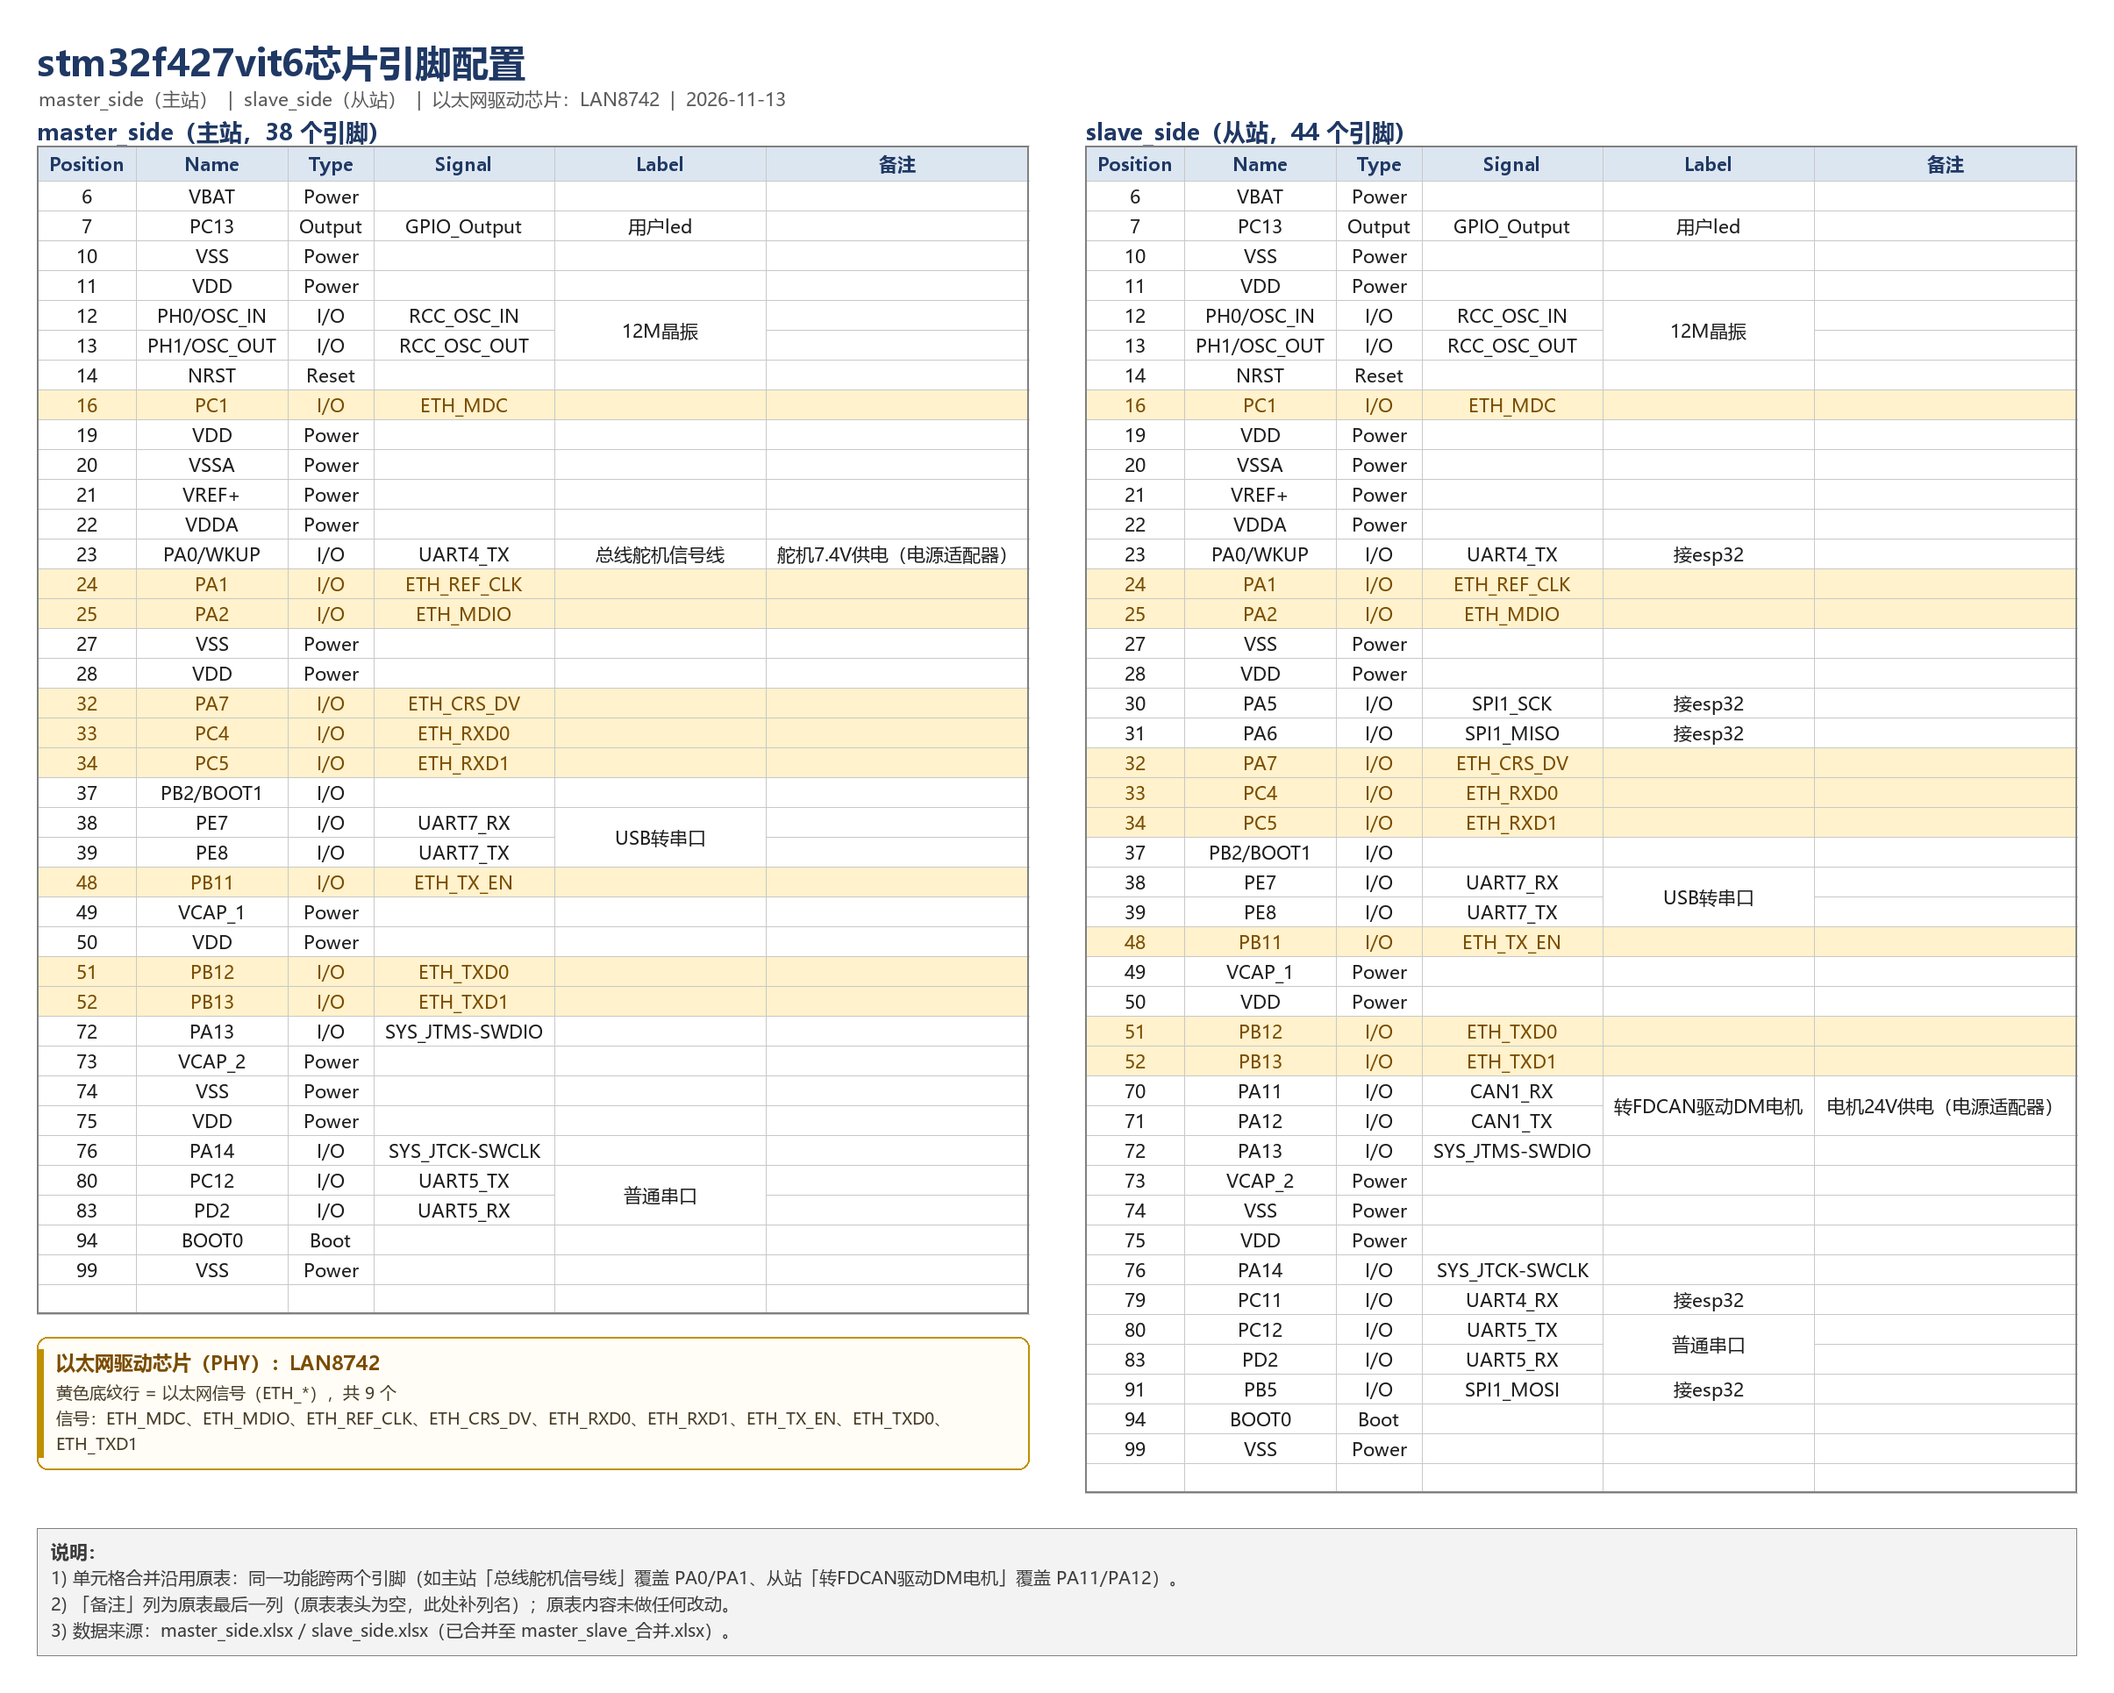
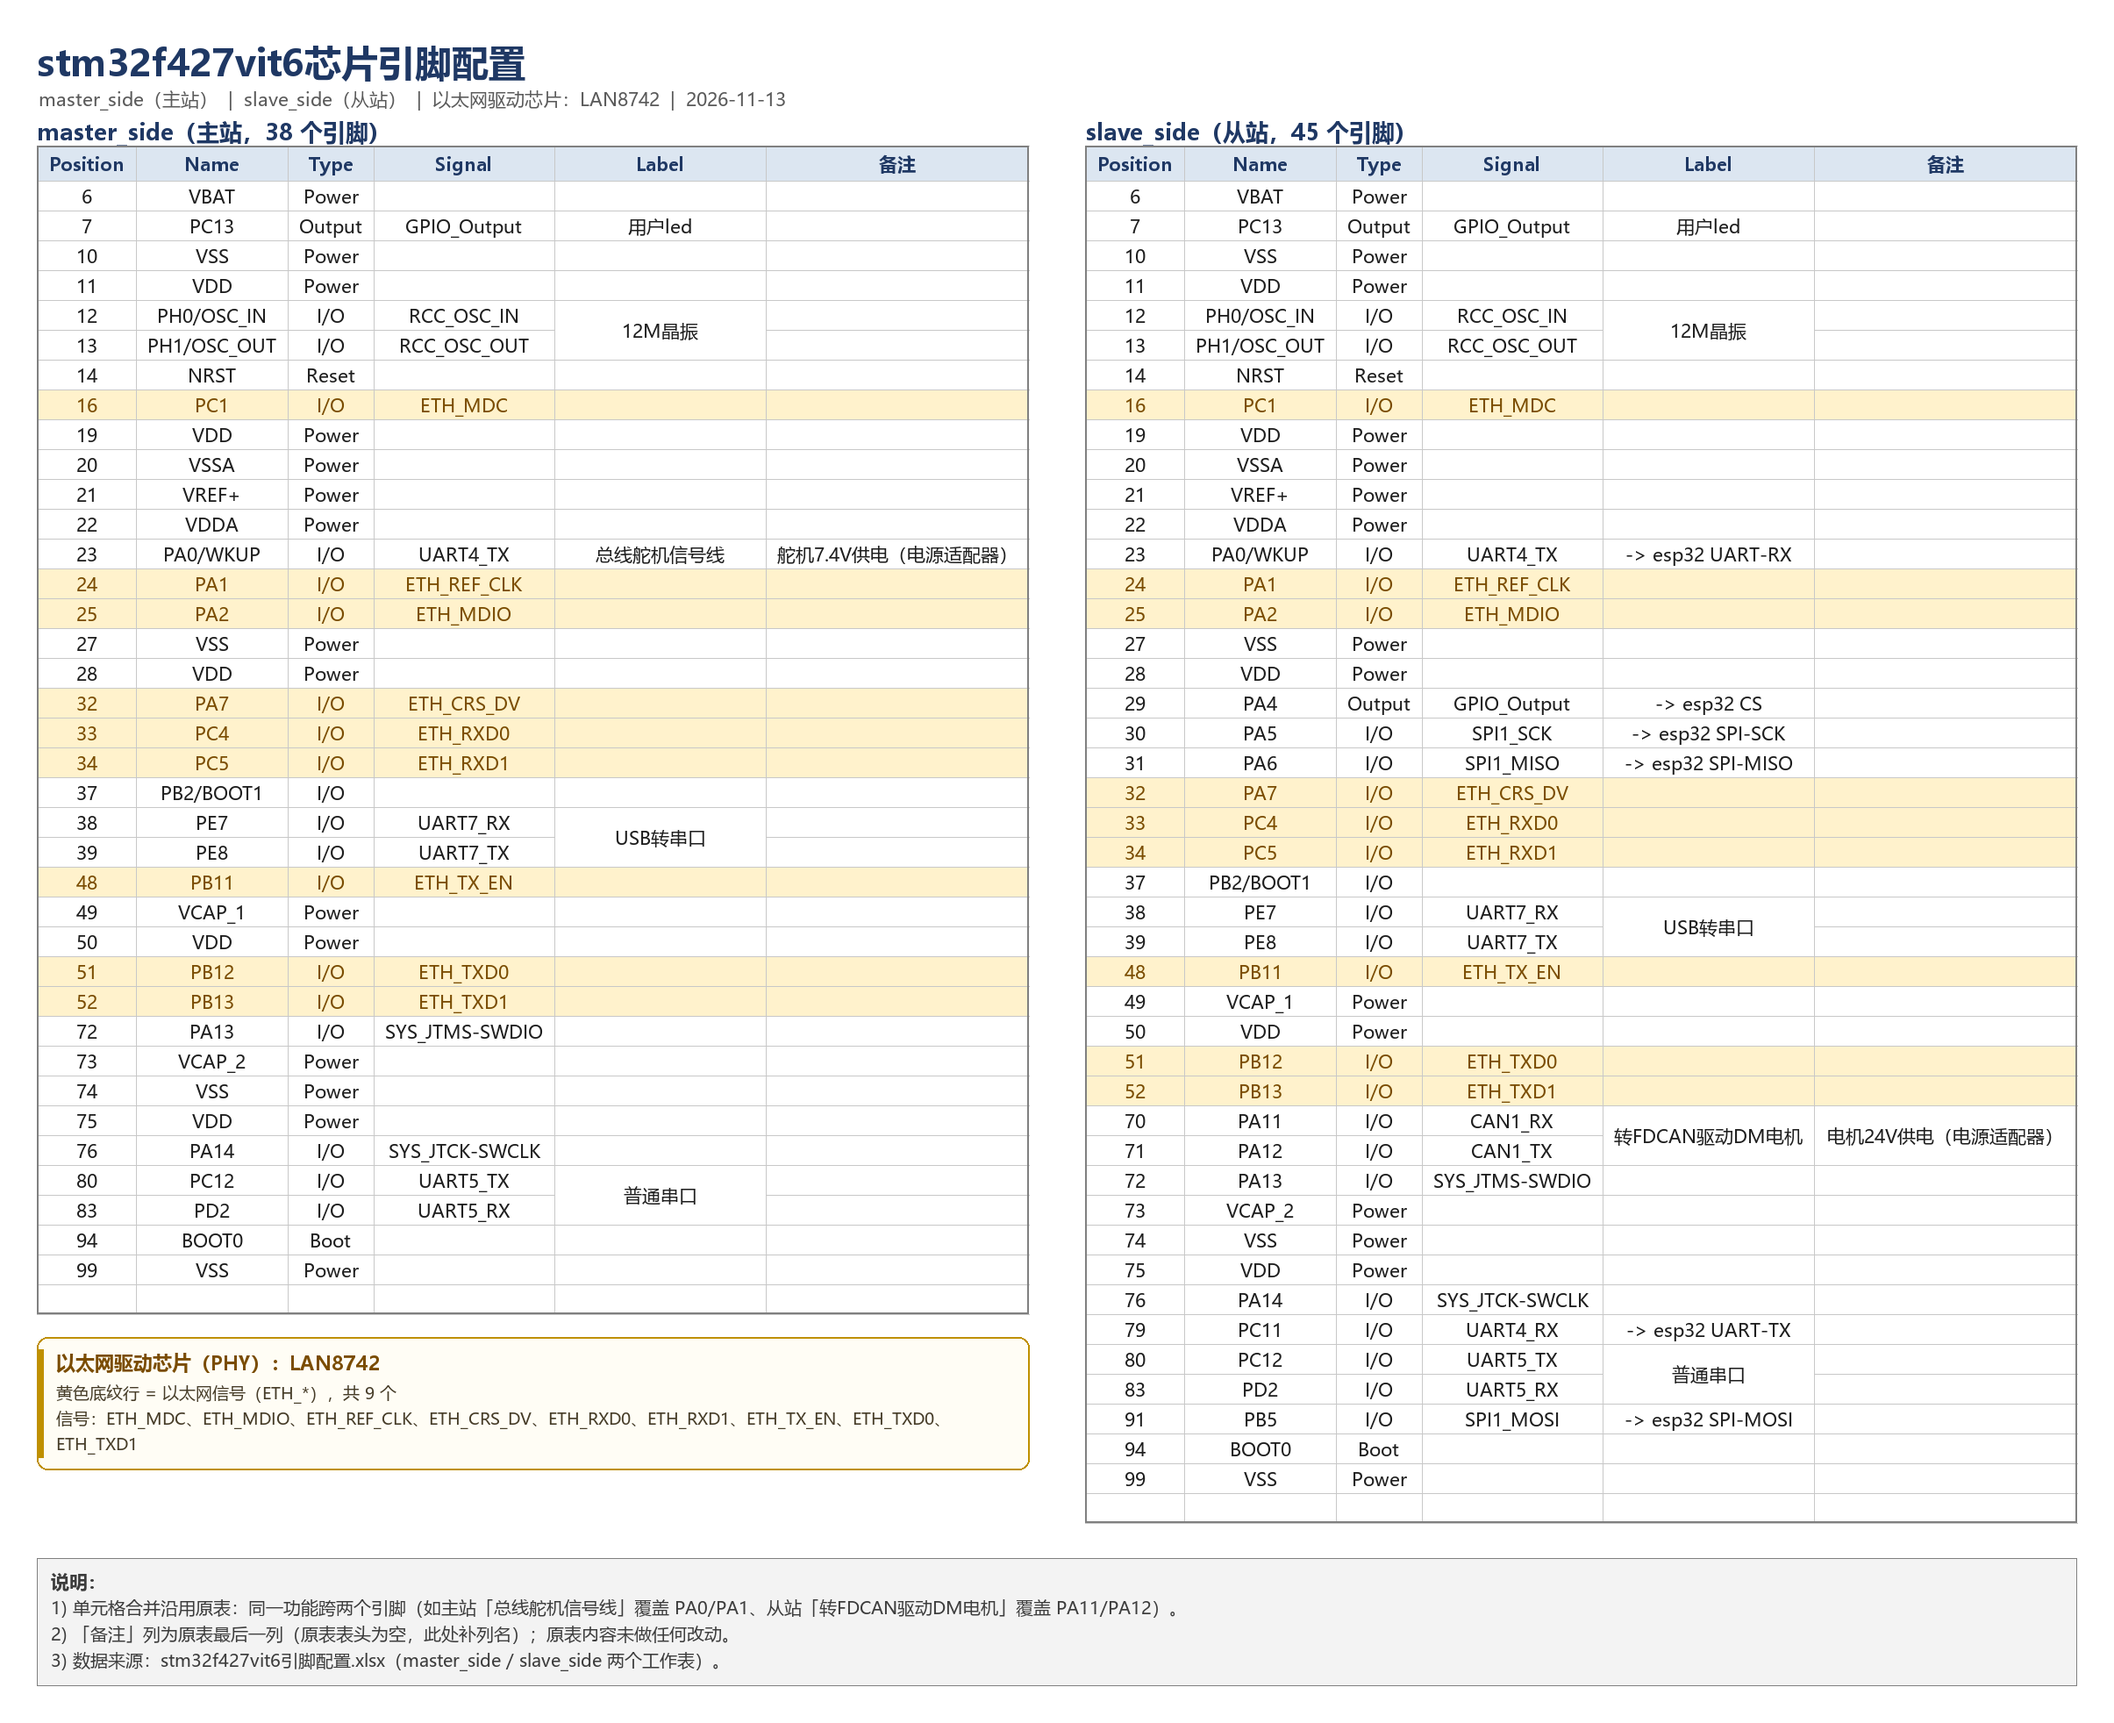
Added the CS pin

diff --git a/hal/slave_side/Core/Src/gpio.c b/hal/slave_side/Core/Src/gpio.c
@@ -55,12 +55,22 @@ void MX_GPIO_Init(void)
   /*Configure GPIO pin Output Level */
   HAL_GPIO_WritePin(GPIOC, GPIO_PIN_13, GPIO_PIN_RESET);
 
+  /*Configure GPIO pin Output Level */
+  HAL_GPIO_WritePin(GPIOA, GPIO_PIN_4, GPIO_PIN_RESET);
+
   /*Configure GPIO pin : PC13 */
   GPIO_InitStruct.Pin = GPIO_PIN_13;
   GPIO_InitStruct.Mode = GPIO_MODE_OUTPUT_PP;
   GPIO_InitStruct.Pull = GPIO_NOPULL;
   GPIO_InitStruct.Speed = GPIO_SPEED_FREQ_LOW;
   HAL_GPIO_Init(GPIOC, &GPIO_InitStruct);
+
+  /*Configure GPIO pin : PA4 */
+  GPIO_InitStruct.Pin = GPIO_PIN_4;
+  GPIO_InitStruct.Mode = GPIO_MODE_OUTPUT_PP;
+  GPIO_InitStruct.Pull = GPIO_NOPULL;
+  GPIO_InitStruct.Speed = GPIO_SPEED_FREQ_LOW;
+  HAL_GPIO_Init(GPIOA, &GPIO_InitStruct);
 
 }
 
